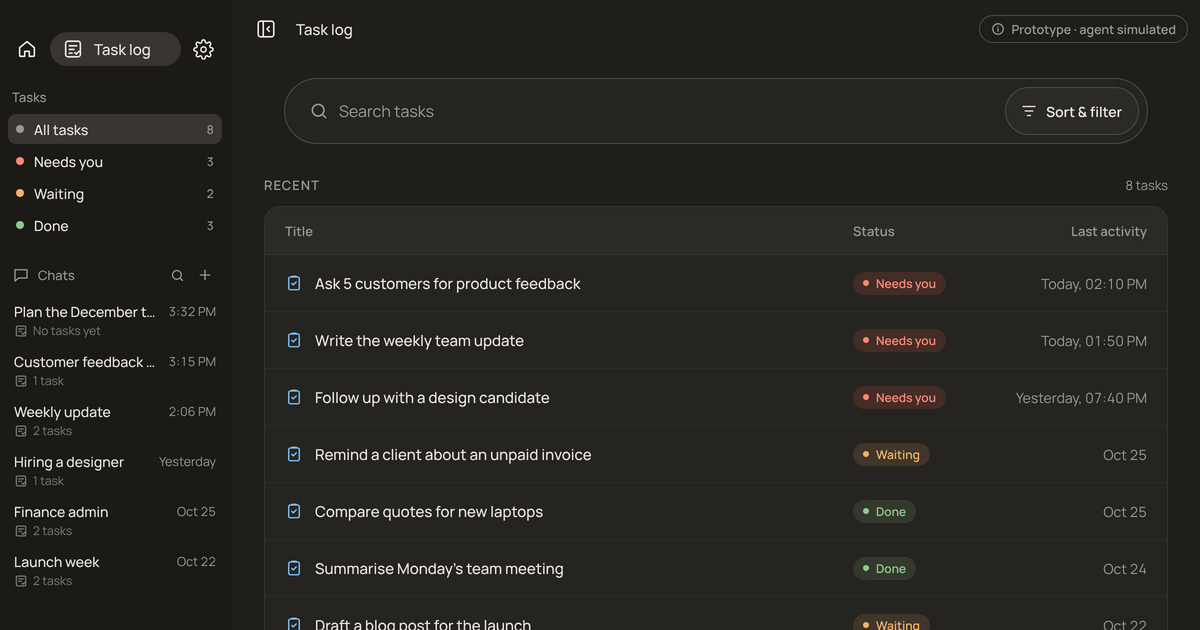
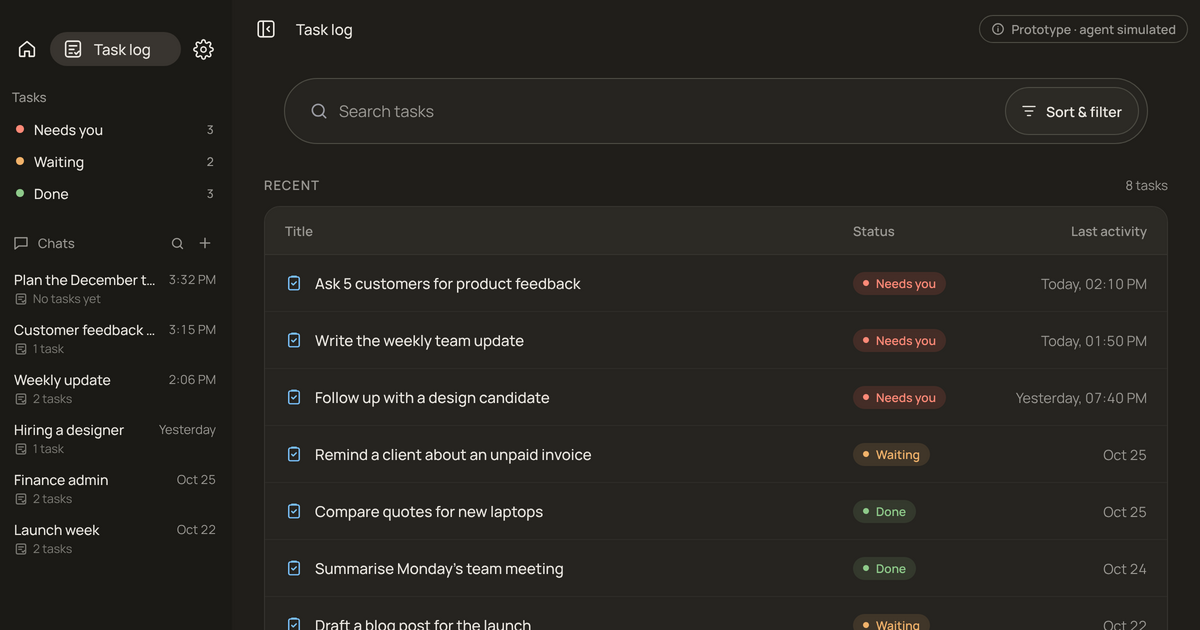
Add files via upload

diff --git a/app.js b/app.js
@@ -85,7 +85,7 @@
     if (api) {
       const n = api.counts(), cur = view.name === "tasklog" ? api.status() : null;
       $("#side-tasks").innerHTML = `<div class="sec-h"><span id="tasks-h">Tasks</span></div>` +
-        [["all", "All tasks"], ["Needs you", "Needs you"], ["Waiting", "Waiting"], ["Done", "Done"]].map(([k, l]) =>
+        [["Needs you", "Needs you"], ["Waiting", "Waiting"], ["Done", "Done"]].map(([k, l]) =>
           `<button type="button" class="status-item${cur === k ? " active" : ""}" data-status="${k}"><span class="dot" style="background:${ST_COLORS[k] || "var(--muted)"}"></span>${l}<span class="n">${n[k] ?? 0}</span></button>`).join("");
     }
     if (inSettings) {
